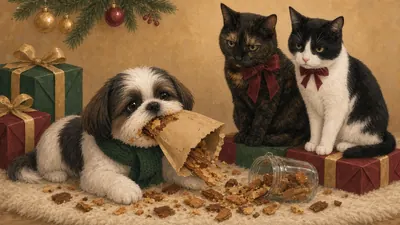
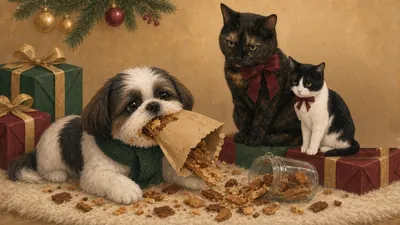
Gifts for pets: Premium treats scene, Lilou resized to ~70% of Lili (manual edit, no generation); treats webp v=20261126c

Changed region(s): [[0.72, 0.0311, 1.0, 0.7156]]

diff --git a/site/products/gifts/index.html b/site/products/gifts/index.html
@@ -448,7 +448,7 @@ if(document.readyState==='loading')document.addEventListener('DOMContentLoaded',
 <circle fill="url(#d-b-gold)" stroke="#0b1719" stroke-width="1" cx="30" cy="84" r="11"/>
 <path fill="none" stroke="#f5ecd6" stroke-width="1.0" opacity=".85" d="M19.4 85.3 Q30 88.6 40.6 85.3"/>
 <ellipse fill="#fff" opacity=".45" cx="25.8" cy="79.8" rx="2.2" ry="1.4" transform="rotate(-35 25.8 79.8)"/></g></svg>
-<figure class="g-band-pic"><img src="../../img/gifts/gifts-band-treats-720.webp?v=20261126b" srcset="../../img/gifts/gifts-band-treats-400.webp?v=20261126b 400w, ../../img/gifts/gifts-band-treats-720.webp?v=20261126b 720w" sizes="(max-width:720px) 90vw, 330px" width="720" height="405" alt="Future the shih tzu greedily devours a spilled pouch and jar of treats while Lili the tortoiseshell cat and Lilou the black-and-white cat stare down at him, unimpressed." loading="lazy" decoding="async"></figure>
+<figure class="g-band-pic"><img src="../../img/gifts/gifts-band-treats-720.webp?v=20261126c" srcset="../../img/gifts/gifts-band-treats-400.webp?v=20261126c 400w, ../../img/gifts/gifts-band-treats-720.webp?v=20261126c 720w" sizes="(max-width:720px) 90vw, 330px" width="720" height="405" alt="Future the shih tzu greedily devours a spilled pouch and jar of treats while Lili the tortoiseshell cat and Lilou the black-and-white cat stare down at him, unimpressed." loading="lazy" decoding="async"></figure>
 </div>
 <p class="g-blurb">Short, honest ingredient lists for dogs and cats. A treat is a treat, not a meal.</p>
 <div class="g-grid">

diff --git a/static/products/gifts/index.html b/static/products/gifts/index.html
@@ -448,7 +448,7 @@ if(document.readyState==='loading')document.addEventListener('DOMContentLoaded',
 <circle fill="url(#d-b-gold)" stroke="#0b1719" stroke-width="1" cx="30" cy="84" r="11"/>
 <path fill="none" stroke="#f5ecd6" stroke-width="1.0" opacity=".85" d="M19.4 85.3 Q30 88.6 40.6 85.3"/>
 <ellipse fill="#fff" opacity=".45" cx="25.8" cy="79.8" rx="2.2" ry="1.4" transform="rotate(-35 25.8 79.8)"/></g></svg>
-<figure class="g-band-pic"><img src="../../img/gifts/gifts-band-treats-720.webp?v=20261126b" srcset="../../img/gifts/gifts-band-treats-400.webp?v=20261126b 400w, ../../img/gifts/gifts-band-treats-720.webp?v=20261126b 720w" sizes="(max-width:720px) 90vw, 330px" width="720" height="405" alt="Future the shih tzu greedily devours a spilled pouch and jar of treats while Lili the tortoiseshell cat and Lilou the black-and-white cat stare down at him, unimpressed." loading="lazy" decoding="async"></figure>
+<figure class="g-band-pic"><img src="../../img/gifts/gifts-band-treats-720.webp?v=20261126c" srcset="../../img/gifts/gifts-band-treats-400.webp?v=20261126c 400w, ../../img/gifts/gifts-band-treats-720.webp?v=20261126c 720w" sizes="(max-width:720px) 90vw, 330px" width="720" height="405" alt="Future the shih tzu greedily devours a spilled pouch and jar of treats while Lili the tortoiseshell cat and Lilou the black-and-white cat stare down at him, unimpressed." loading="lazy" decoding="async"></figure>
 </div>
 <p class="g-blurb">Short, honest ingredient lists for dogs and cats. A treat is a treat, not a meal.</p>
 <div class="g-grid">
